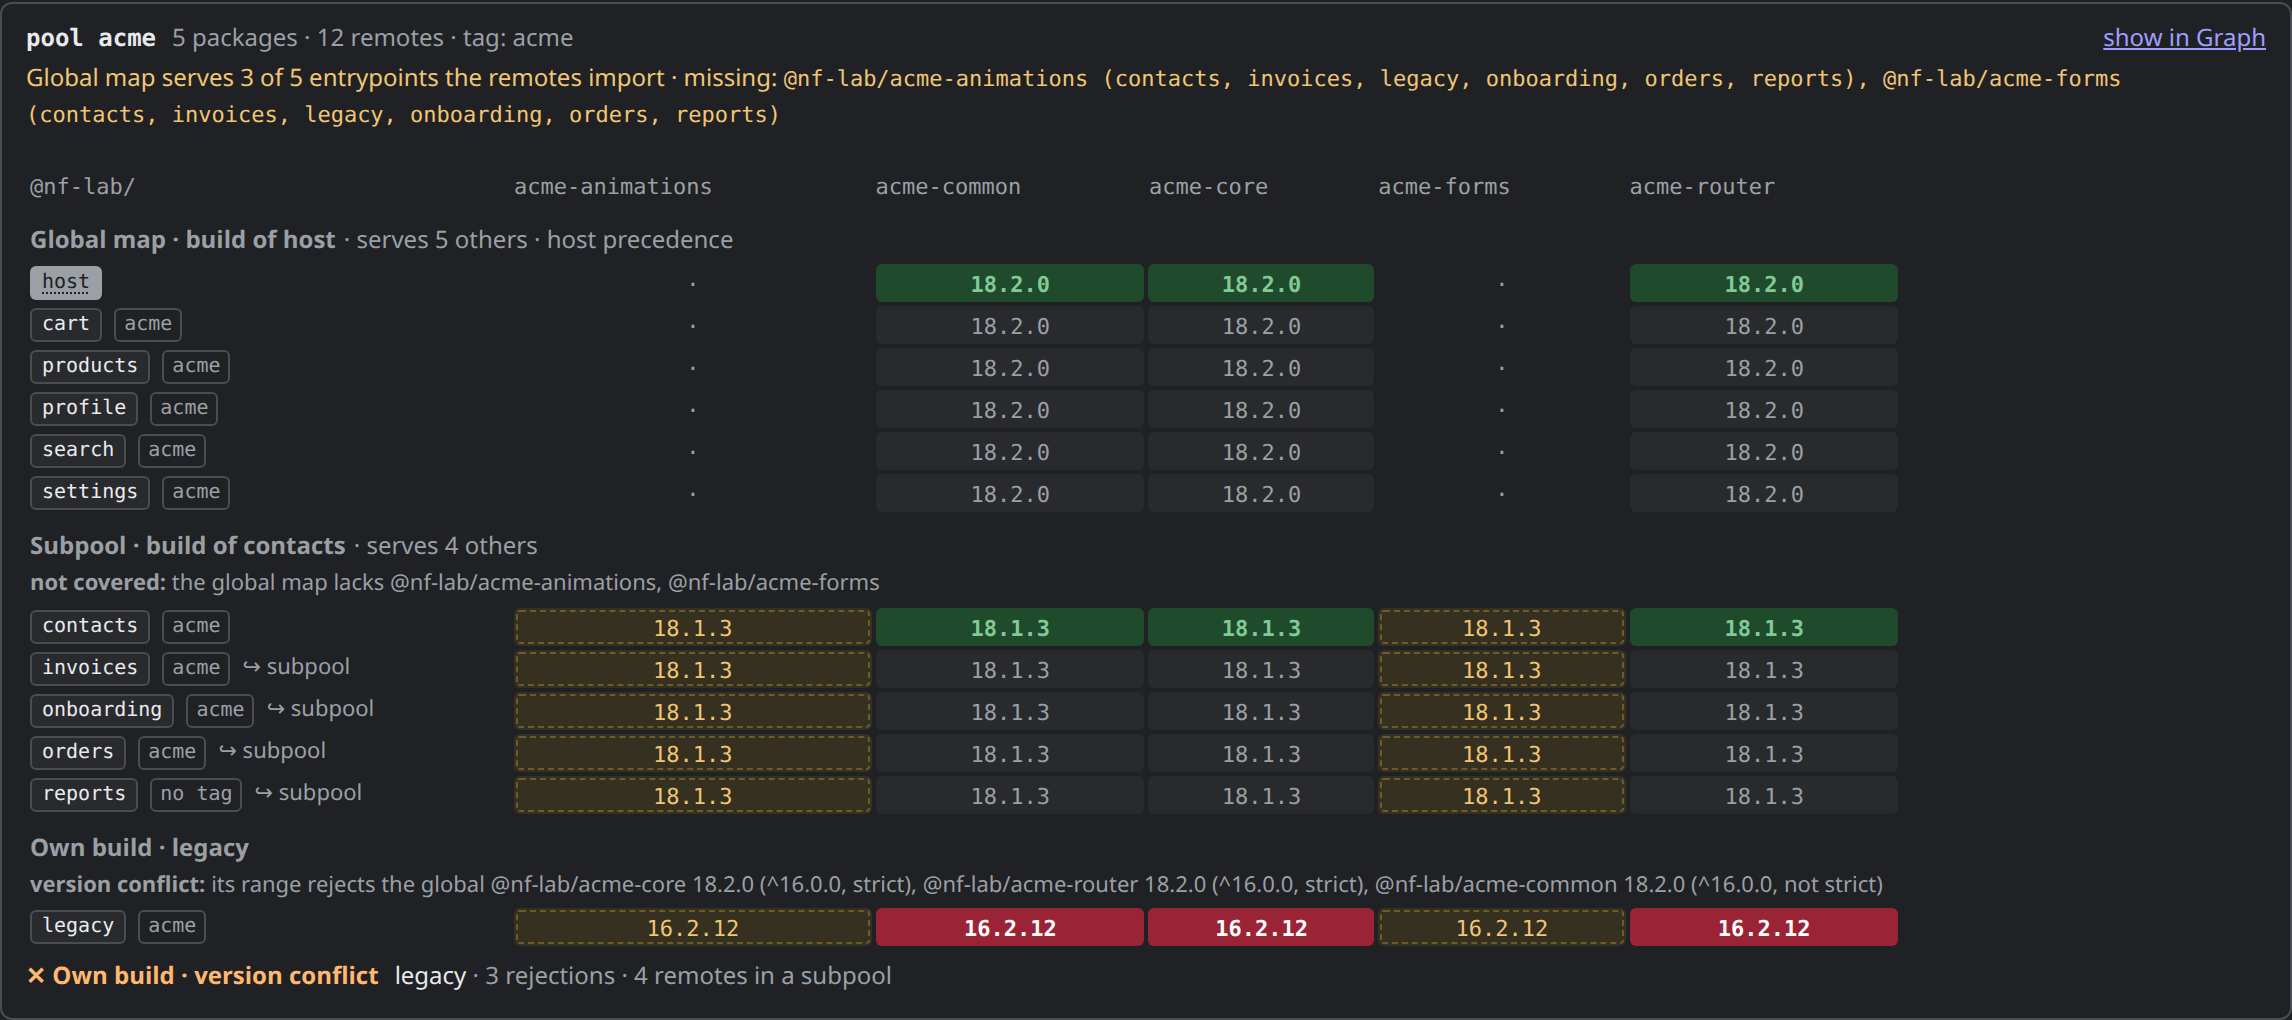
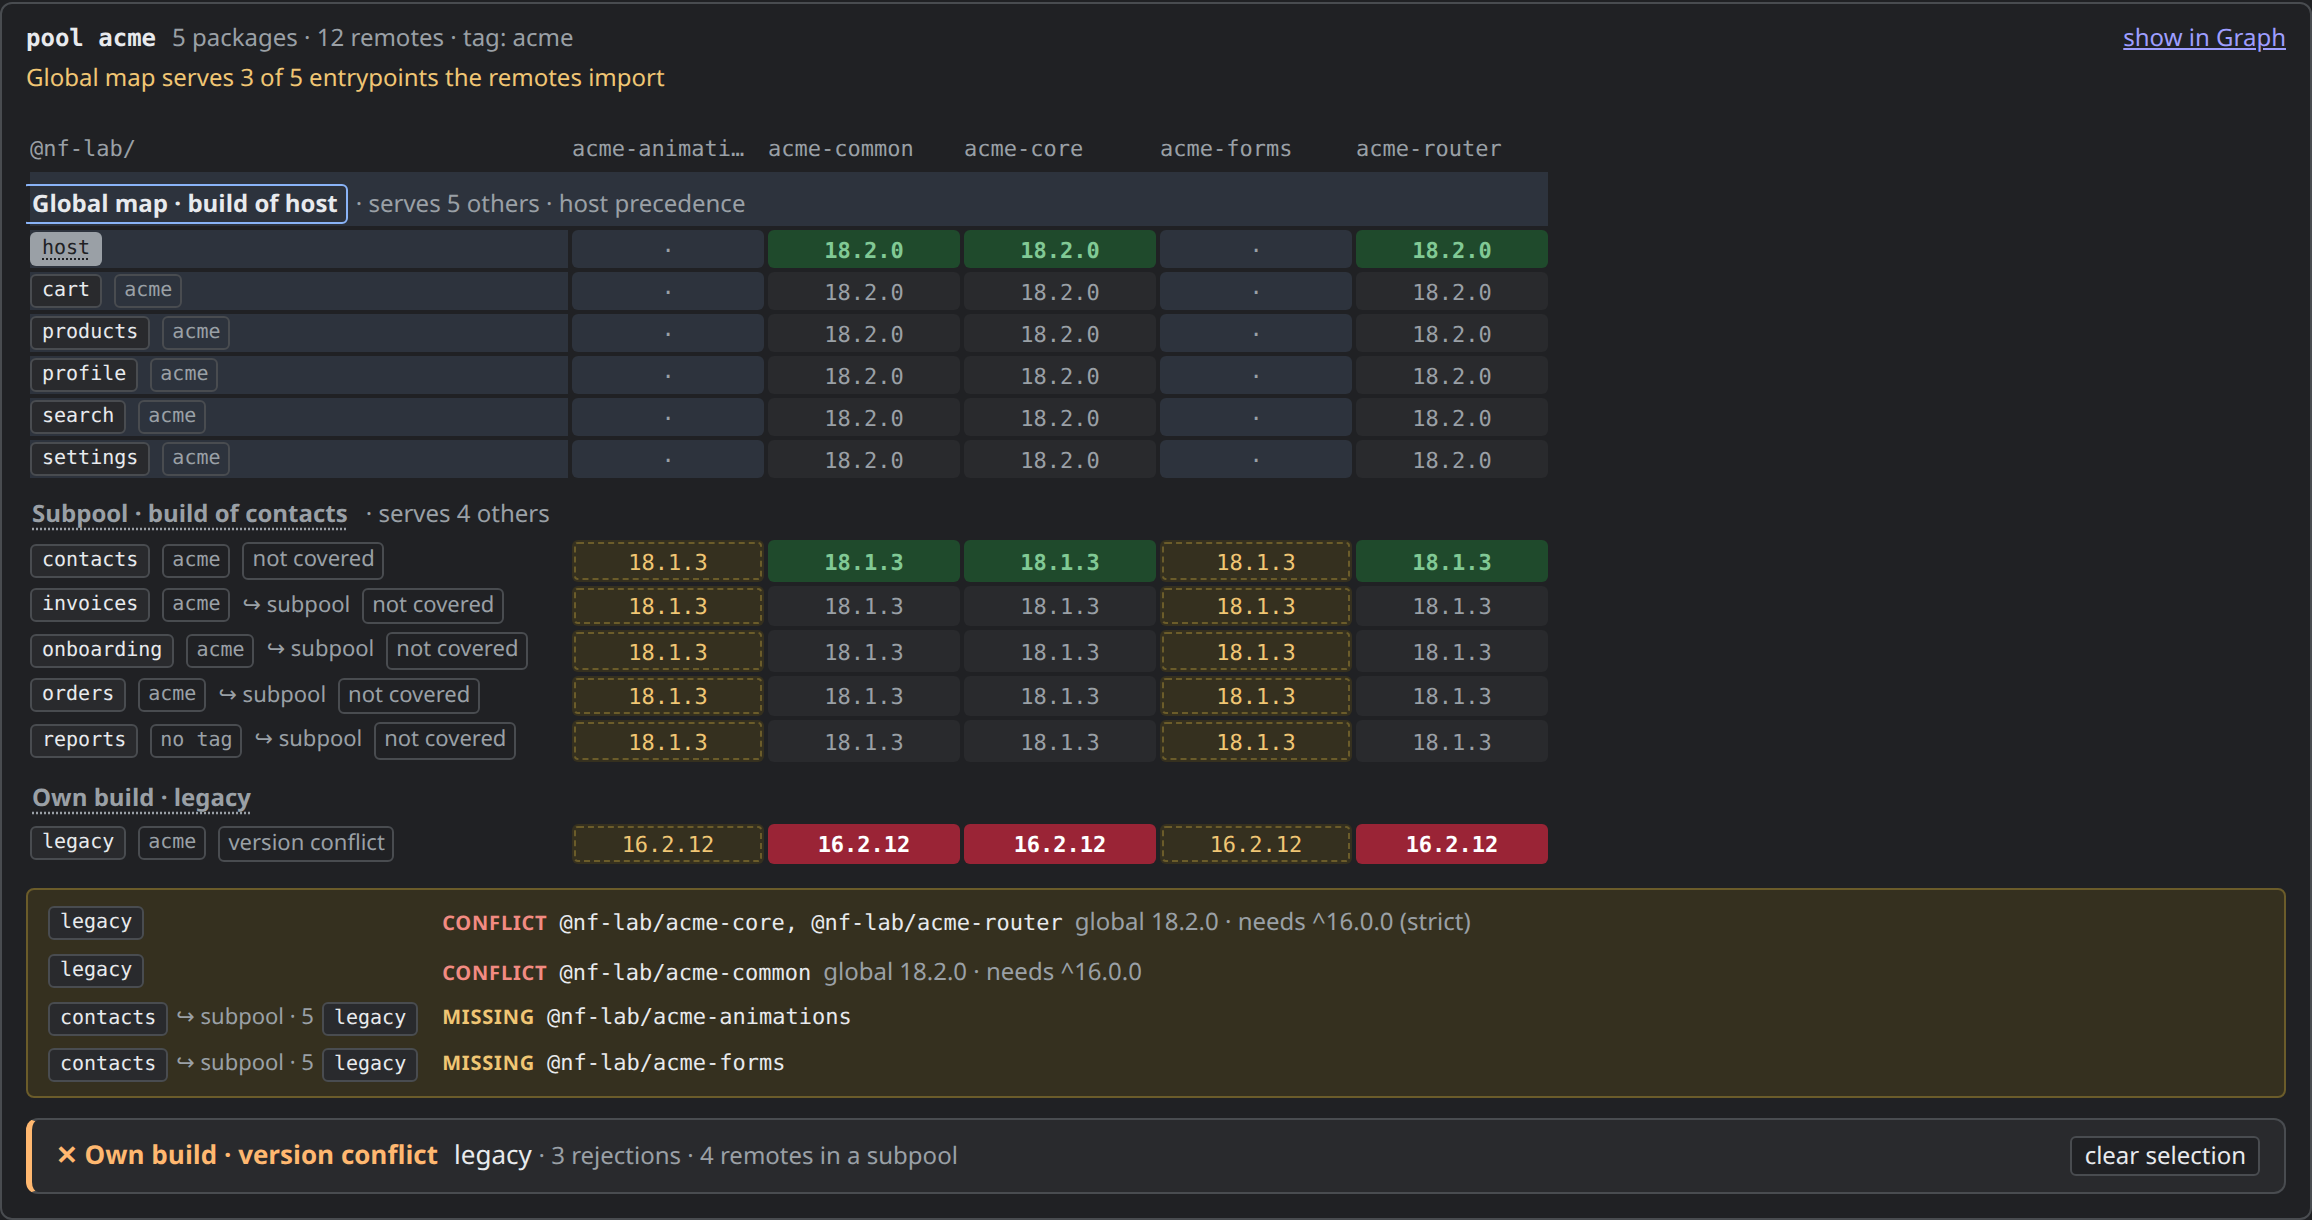
docs: Pools selection, issue warning and per-build view in README, notes and data model
Re-shot the README Pools screenshots (pool-portfolio, global map selected).
DEVELOPMENT describes selection, cause chips and the per-build view; the data
model documents the pool grouping rule per orchestrator version, PoolFamily
lenses and subpoolMisses, and that a lens is the serves check, not a re-run
of the election.

diff --git a/docs/resolution-data-model.md b/docs/resolution-data-model.md
@@ -600,7 +600,14 @@ classDiagram
     +PoolFamilyMember[] members
     +PoolStatusMatrix statusMatrix
     +PoolConsumer[] consumers
+    +PoolLens[] lenses
     +boolean pending
+  }
+  class PoolLens {
+    +string owner
+    +PoolCoverage coverage
+    +PoolLensConsumer[] consumers
+    +PoolLensCell[][] cells
   }
   class CopyGroupingFacets {
     +ResolvedDependencyCopyId copyId
@@ -655,6 +662,7 @@ classDiagram
   CanonicalResolutionProjection "1" *-- "0..*" PoolFamily
   CanonicalResolutionProjection "1" *-- "0..*" CopyGroupingFacets
   PoolFamily "1" --> "1" TagPool : poolId, same order
+  PoolFamily "1" *-- "0..*" PoolLens
   CopyGroupingFacets "1" --> "1" ResolvedDependencyCopy : copyId, same order
   CanonicalResolutionProjection "1" *-- "0..*" PackageScopeVerdicts
   PackageScopeVerdicts "1" *-- "1..*" VersionVerdict : semver descending
@@ -693,11 +701,15 @@ nothing, and legacy `@nf-internal/...` carriers keep their raw provenance as
 pseudo-external chunk groups outside dependency attribution.
 
 Pooling facts are three sibling lists. `tagPools` rebuilds the explicit-tag
-pools from the registry exactly as the orchestrator forms them
-(`pool-graph.ts` `groupByMembership`, tag edges only): per share scope, a
-connected component of `package — (remote, tag)` and `entrypoint — owning
-package` edges with at least two members, never in the `strict` scope; a
-tagged package that joins nothing is an `orphanPoolTag`. The pool name is the
+pools from the registry the way the orchestrator that stored them forms them:
+per share scope, a connected component of label and `entrypoint — owning
+package` edges with at least two members, never in the `strict` scope. The
+stored `poolName` (orchestrator 4.7+) is the orchestrator's own grouping and
+joins its members first. A label then links packages as 4.8 does
+(`membership.ts`: one node per label across every remote) when the scope
+carries a stored `poolWinner`, else as 4.6/4.7 did (`pool-graph.ts`: one node
+per remote and label, so two remotes' labels meet only through a shared
+package). A tagged package that joins nothing is an `orphanPoolTag`. The pool name is the
 stored `poolName` (orchestrator 4.7+), else the alphabetically first member;
 the ID always keys on the latter. `poolFamilies` (one per pool, same order)
 read where pooling put each remote off the stored rows (orchestrator 4.8
@@ -713,7 +725,20 @@ tag always accepted (`createAcceptsTag`); else every specifier the surface
 lacks (`coverage`); else the first specifier no single build ships with the
 rest (`unshipped`). `consistent` checks the placement against that reason and
 the stored `poolCause`, which is published as is, never overridden: a
-contradiction reads as unexplained, not as a guess. The status matrix folds
+contradiction reads as unexplained, not as a guess.
+
+`lenses` (one per remote that ships a member) judge every remote against that
+remote's build instead of the global surface, with the orchestrator's `serves`
+rule only (`rules.ts`: each specifier the build ships at a tag the copy's
+range accepts, own tag exempt; range first, then coverage): a per-copy cell
+(`accepted`, `rejected`, `gap`), a coverage of what the build ships, and a miss
+per remote, null when it fits. A lens is what-if evidence, never a placement:
+the election itself (round-1 ranking, subpool order, extensions, promotion,
+host precedence — `election.ts` `elect`) is deliberately not re-run, so "fits"
+does not mean the orchestrator would put the remote there. A remote on its own
+build also carries `subpoolMisses`: per subpool owner, its miss on that
+lens — why that subpool's build does not serve it either (a null miss: it
+fits, and the stored rows do not say why). The status matrix folds
 consumers into bands (global, subpool, isolated, unknown) with one verdict
 (`isolated > redirected > one-build`); the verdict's isolation cause is the
 stored one only when every isolated remote stores it, the subpool cause the

diff --git a/docs/DEVELOPMENT.md b/docs/DEVELOPMENT.md
@@ -44,18 +44,26 @@ chunk bundle — with honest outcomes where attribution cannot be proven.
 
 **Pools** — one card per explicit pool tag (`pool` on a shared external): how
 much of what the remotes import the global map serves, then a matrix of every
-remote's copy of every member, banded by where it runs — the global map (the
-stored winner, plus packages it takes from other builds), a subpool on another
-remote's build, or its own build — and one verdict per pool. Every remote off
-the global map gets its reason: every range rejection (strict or not, own
-version exempt), every entrypoint the global map lacks, or a combination no
-single build ships; `rejected` and `gap` cells mark where. Membership is
-rebuilt from the stored tags exactly as the orchestrator forms it; placement
-is read off the rows pooling wrote back (`servedBy`, `scope`), the reason is
-recomputed with the orchestrator 4.8 rules and checked against the stored
-`poolCause`; a contradiction reads as unexplained, never guessed. A pool is
-pending while a member is `dirty` or a runtime load left its scope undecided
-(`cache-state`). The tab appears only when the capture carries a pool tag.
+remote's copy of every member, banded by the pool it runs in — the global map
+(the stored winner, plus packages it takes from other builds), a subpool on
+another remote's build, or its own build — and one verdict per card. Each
+remote off the global map carries a cause chip (`version conflict`, `not
+covered`, `unexplained`) whose tooltip lists every reason: every range
+rejection (strict or not, own version exempt), every entrypoint the global map
+lacks, a combination no single build ships, and for an own build why no
+subpool's build serves it either. Nothing is selected by default; a band label
+or a row selects that pool. Then a warning under the matrix lists one line per
+problem, remotes first, a subpool collapsed to its owner — and selecting a
+subpool or own build judges every remote against that build (the
+orchestrator's `serves` check, never a re-run of the election), next to where
+each actually runs. Membership is rebuilt from the stored tags as the
+orchestrator that stored them forms it; placement is read off the rows pooling
+wrote back (`servedBy`, `scope`), the reason is recomputed with the
+orchestrator 4.8 rules and checked against the stored `poolCause`; a
+contradiction reads as unexplained, never guessed. A pool is pending while a
+member is `dirty` or a runtime load left its scope undecided (`cache-state`).
+Pool chips in Packages and Remotes open the card on that remote's row. The tab
+appears only when the capture carries a pool tag.
 
 Any snapshot can be exported as JSON, which doubles as a reproducible bug
 report.

diff --git a/README.md b/README.md
@@ -93,15 +93,18 @@ consumes from whom, and which own version lost the negotiation.
 
 <picture>
   <source media="(prefers-color-scheme: dark)" srcset="docs/assets/readme/pools-dark.png">
-  <img src="docs/assets/readme/pools-light.png" alt="The Pools tab: pool acme with the host's build on the global map, five remotes in a subpool on contacts' build because the global map lacks acme-animations and acme-forms, and legacy on its own build because its range rejects three global versions">
+  <img src="docs/assets/readme/pools-light.png" alt="The Pools tab: pool acme with the global map selected. Six remotes run the host's build, five share a subpool on contacts' build, and legacy runs its own build. The warning under the matrix lists legacy's version conflicts with the global 18.2.0 and the two packages the global map lacks, for contacts' subpool and legacy">
 </picture>
 
 The host's build serves the global map, but it ships neither `acme-animations`
 nor `acme-forms`, so five remotes share a subpool on contacts' build instead.
-`legacy` runs the whole family from its own build: its ranges reject three of
-the global versions, each one listed. Reasons are recomputed from the stored
-records with the orchestrator's own rules and checked against the cause it
-stored.
+`legacy` runs the whole family from its own build: its ranges reject the global
+versions. Select a pool — click its label or any of its remotes — and the
+warning lists what keeps remotes off it, one line per problem, a subpool shown
+once as its owner; hover a remote's cause for all its reasons. Select a subpool
+or own build to see which remotes would fit that build instead. Reasons are
+recomputed from the stored records with the orchestrator's own rules and
+checked against the cause it stored.
 
 ## Requirements
 

diff --git a/docs/work/pools-v48/task-log/task-9-pools-scale-selection.md b/docs/work/pools-v48/task-log/task-9-pools-scale-selection.md
@@ -77,8 +77,10 @@ and on `pool-portfolio` temporarily inflated to 40 remotes (not committed).
 
 ### Context for Next Task
 
-- README Pools screenshots predate this task; `docs/resolution-data-model.md`
-  lacks `PoolLens` / `subpoolMisses` and the grouping rule.
+- Docs follow-up (separate commit): README Pools section and screenshots
+  (`pool-portfolio`, global map selected, 1180 CSS px at 2×, headless Chrome
+  via the orchestrator repo's Playwright), DEVELOPMENT Pools paragraph, data
+  model (grouping rule, `lenses`, `subpoolMisses`).
 - The parity harness lives only in the session scratchpad; committing a
   trimmed corpus (~40 portfolios) would keep it in CI.
 
